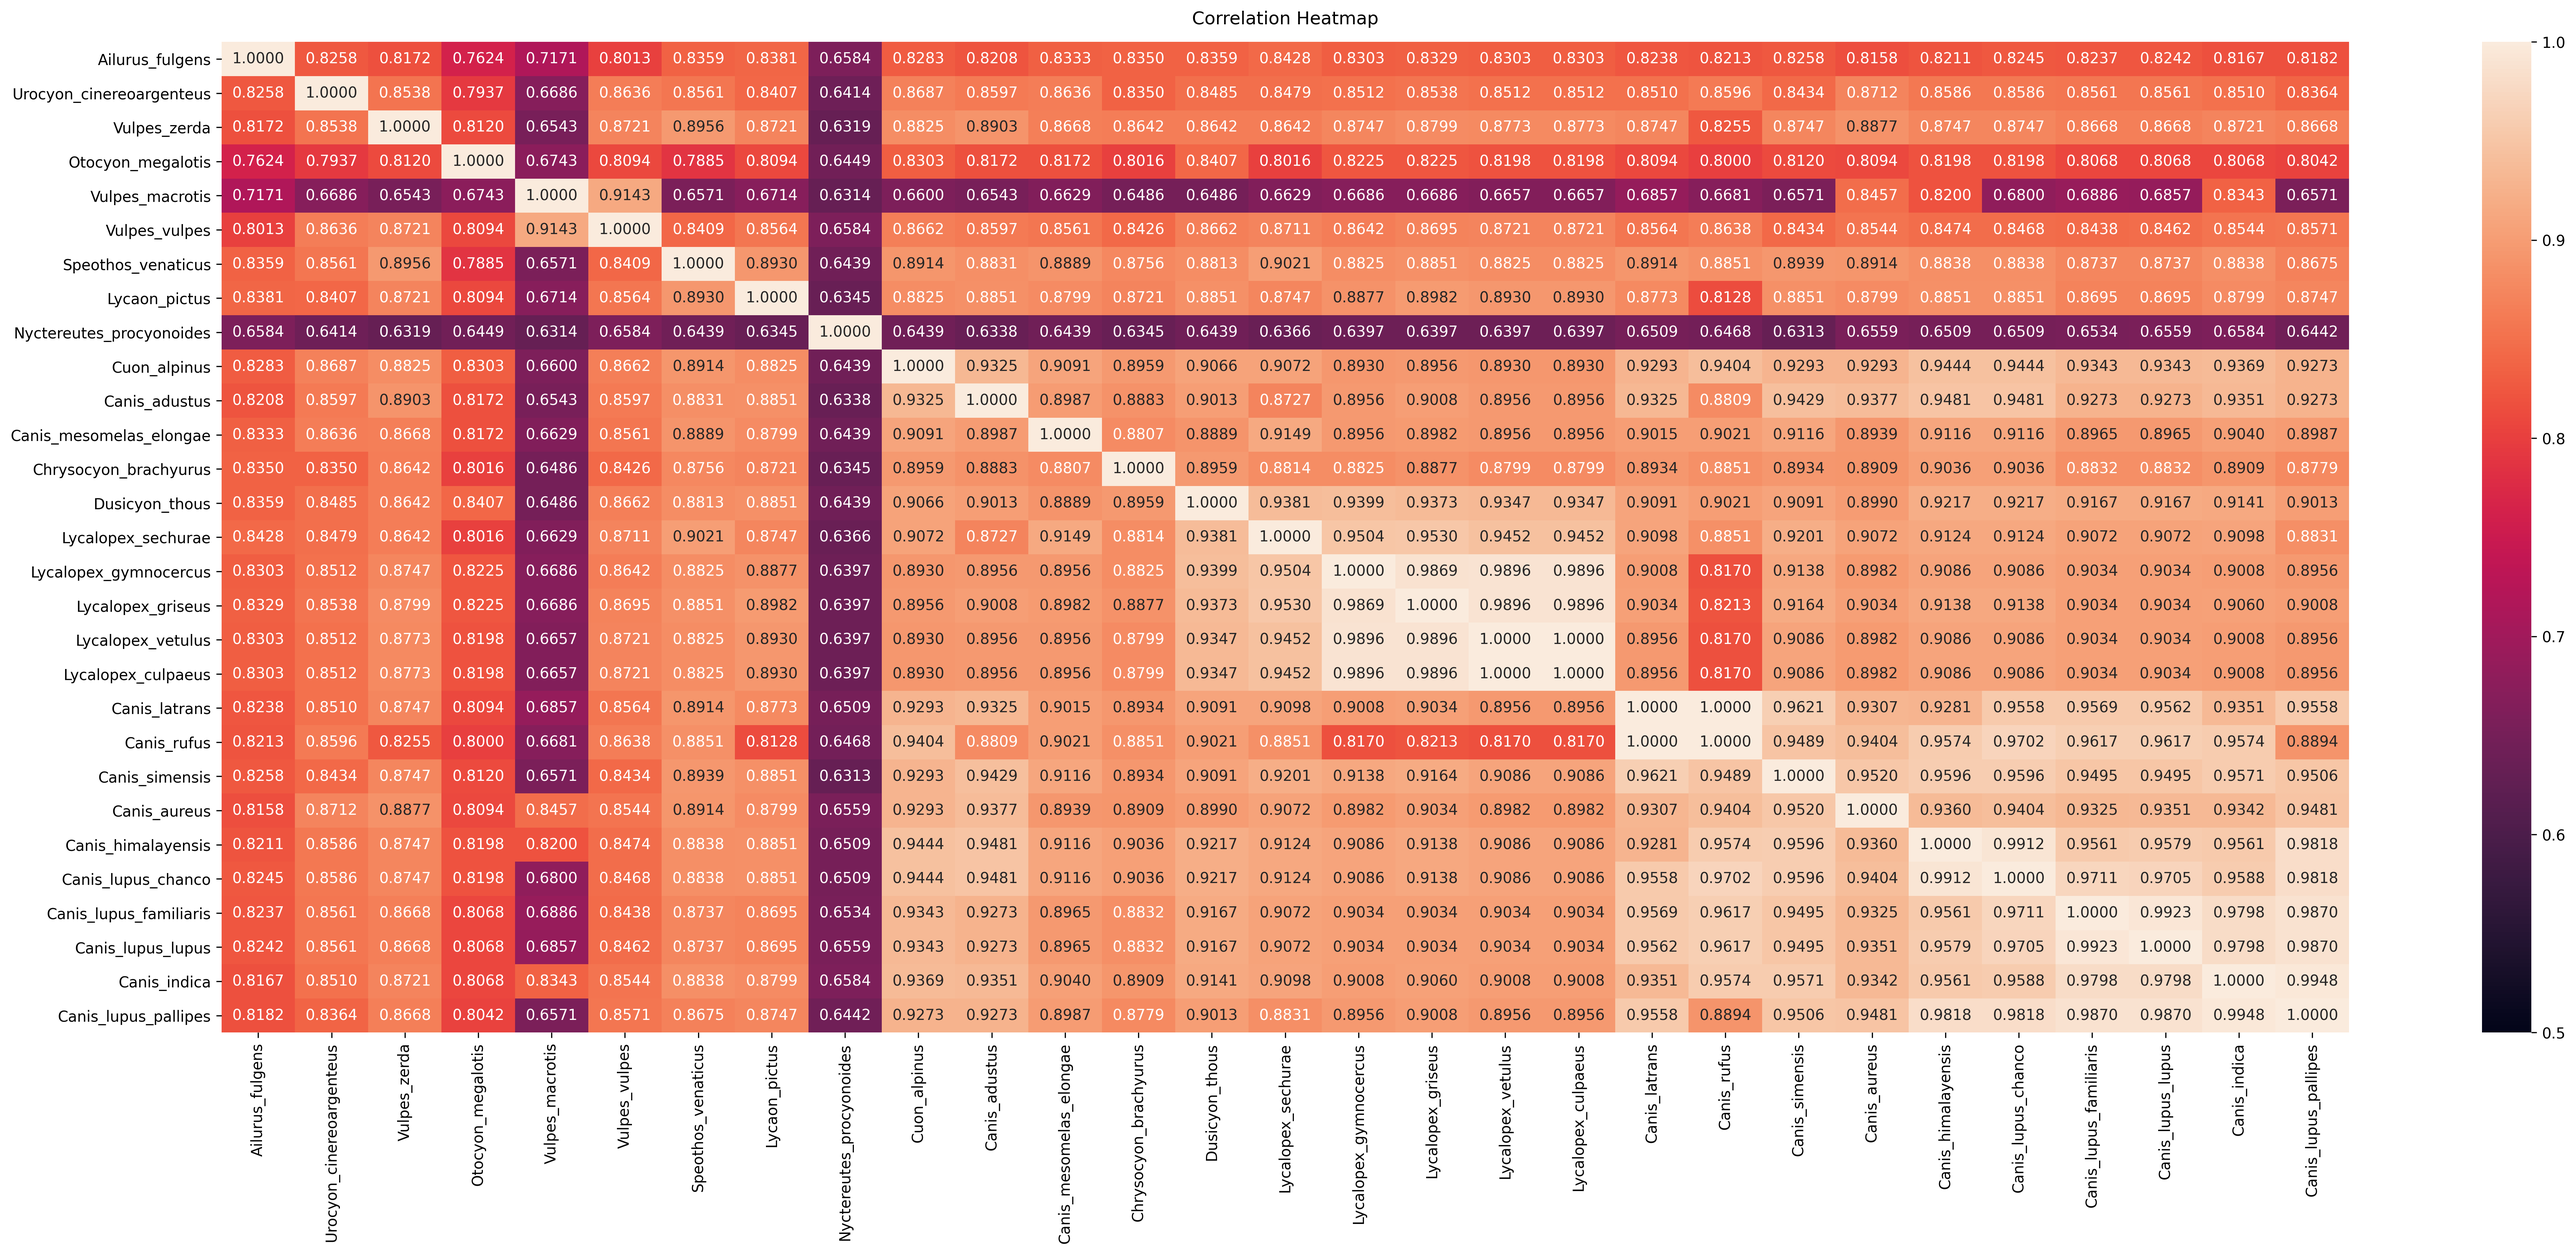
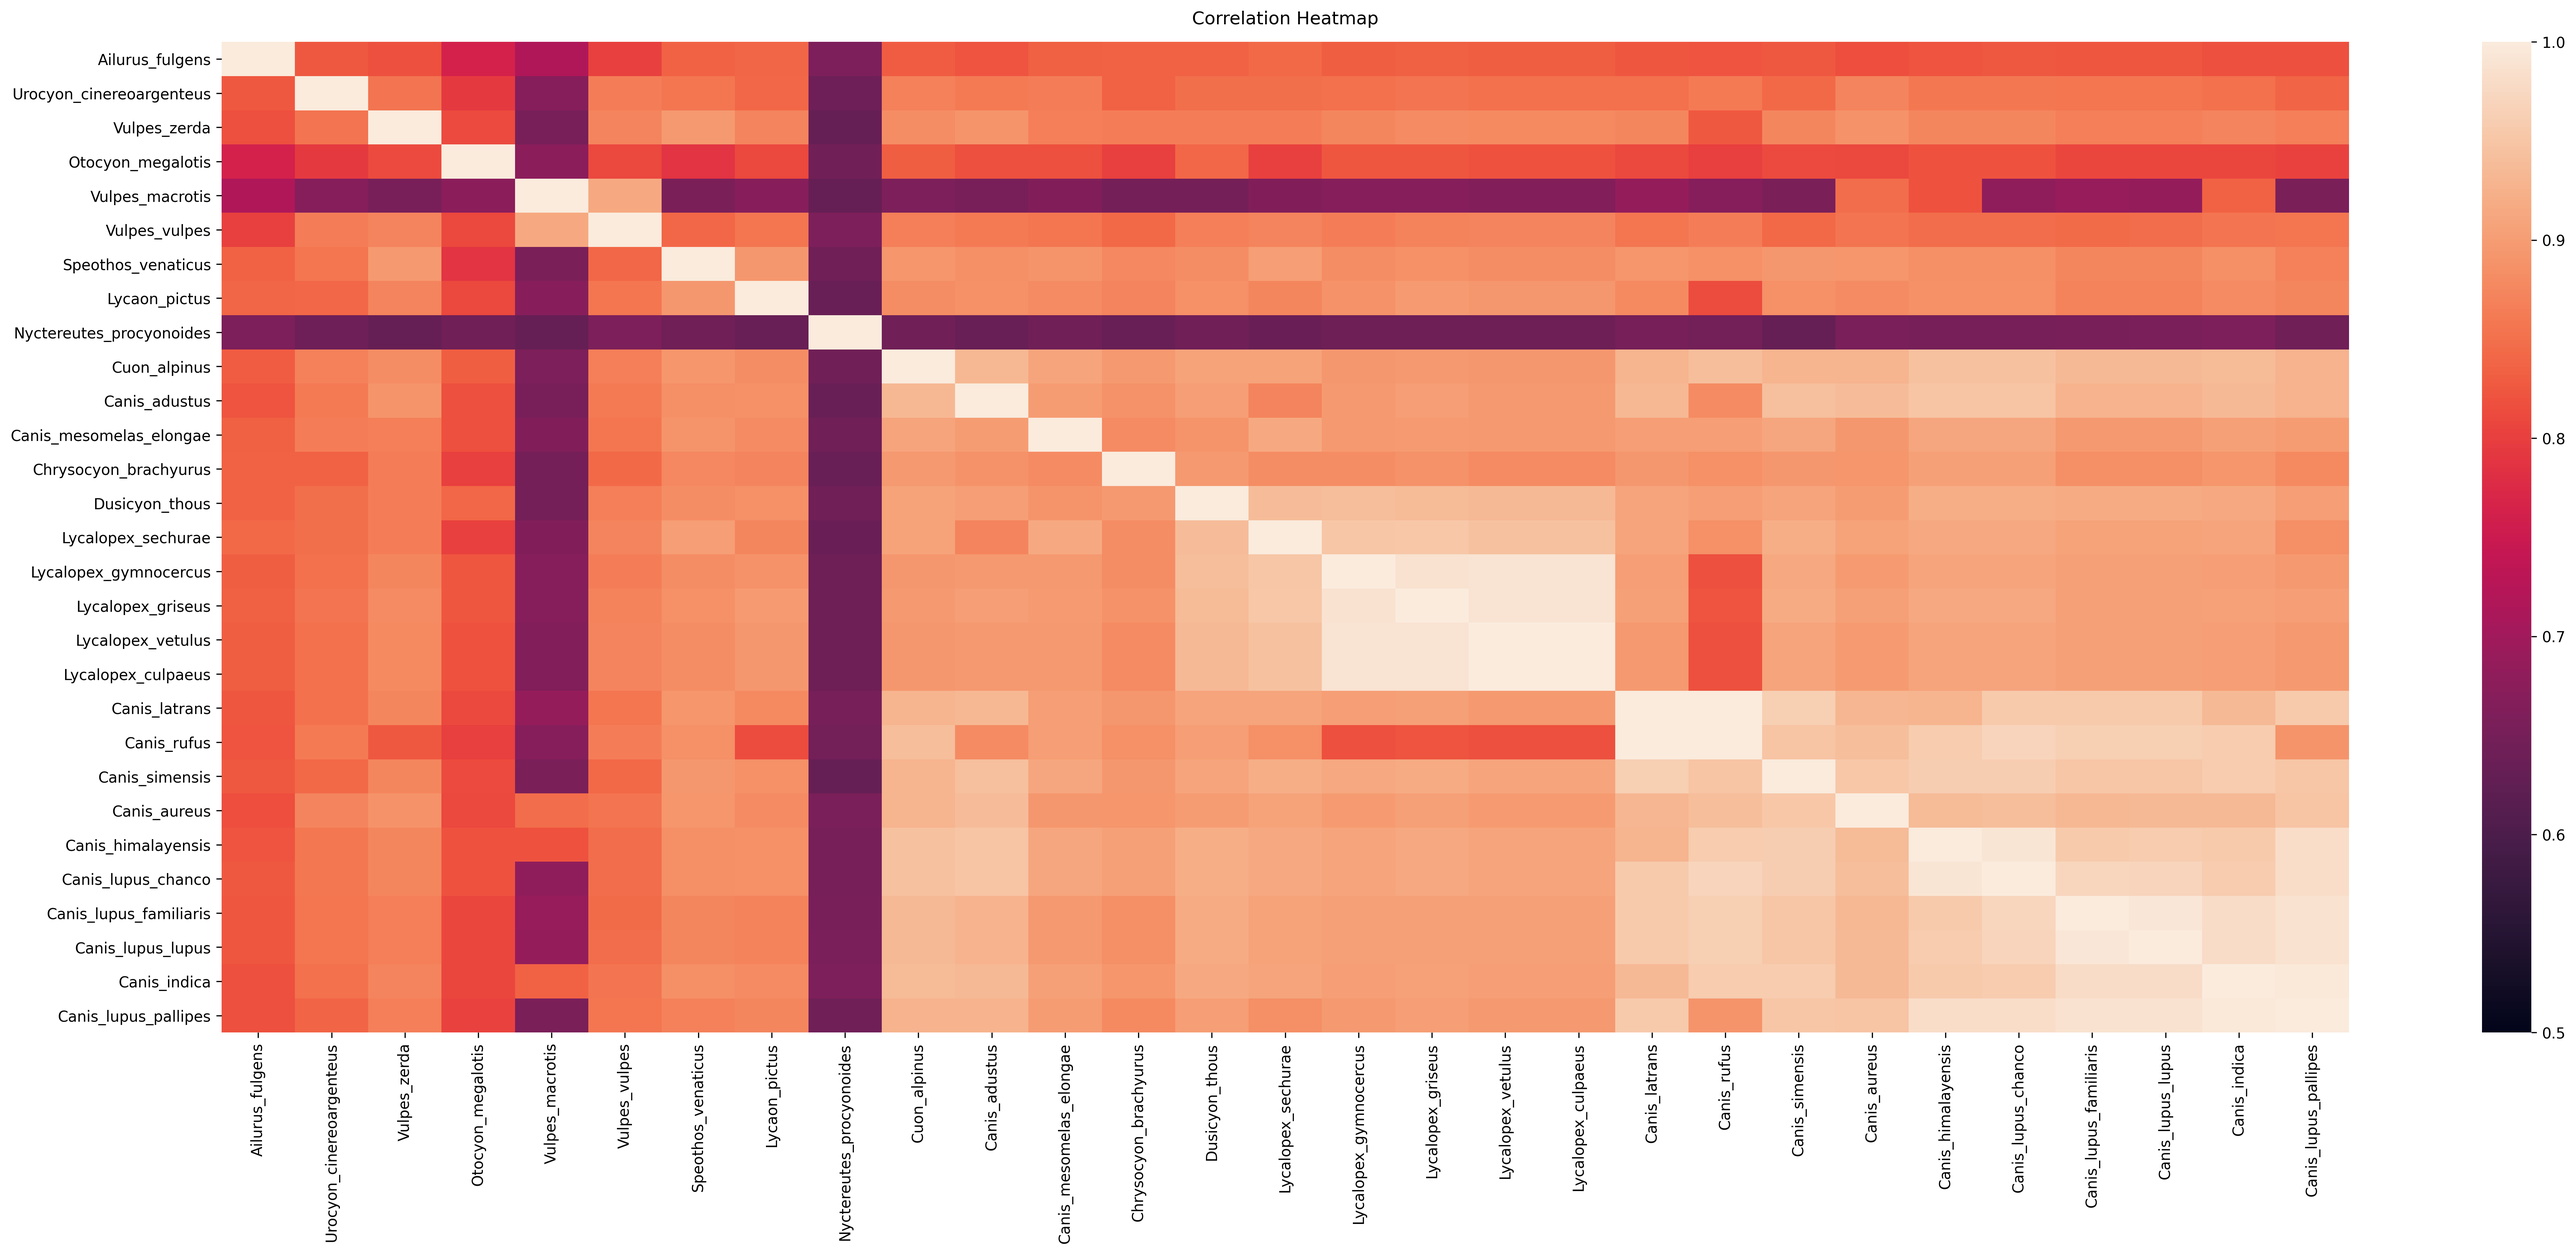
comments

diff --git a/Generate_matrix.py b/Generate_matrix.py
@@ -6,9 +6,19 @@ import json
 import array
 
 def upp2sym(a):
+    '''
+    Translates upper traing. matrix into symmetric matrx
+    :param a: numpy matrix
+    :return: numpy symmetric matrix
+    '''
     return np.where(a,a,a.T)
 
 def sort_by_values_len(dict):
+    '''
+    Sorts the values of a dictionary by length
+    :param dict: the dictianory we want to sort
+    :return: sorted dictionary
+    '''
     dict_len= {key: len(value) for key, value in dict.items()}
     import operator
     sorted_key_list = sorted(dict_len.items(), key=operator.itemgetter(1), reverse=True)
@@ -17,10 +27,12 @@ def sort_by_values_len(dict):
 
 
 if __name__ == "__main__":
+    # Load in data from json file
     f = open('final_matrix.json')
     data_json = json.load(f)
     pre_sorted_data = sort_by_values_len(data_json)
 
+    # Set corrrect values for sorted data dictionary
     sorted_data = {}
     for i in pre_sorted_data:
         for key, value in i.items():
@@ -28,6 +40,8 @@ if __name__ == "__main__":
 
     names = []
     ut_matrix = []
+
+    # Adds zero's where needed because we have an upper triang. matrix
     for key, value in sorted_data.items():
         names.append(key)
         if len(value) != 29:
@@ -40,23 +54,25 @@ if __name__ == "__main__":
             sorted_data[key] = new_list
         ut_matrix.append(sorted_data[key])
 
+    # Make symmetric matrix
     test = np.array(ut_matrix)
     matrix = upp2sym(test)
 
+    # Change numpy array into dictionary
     temp_list = []
     for y in matrix:
         temp_list.append(y.tolist())
 
+    # Change numpy array into dictionary
     final_matrix = {}
     for key, value in sorted_data.items():
         final_matrix[key] = temp_list[0]
         temp_list.pop(0)
 
+    # Create Dataframe
     df = pd.DataFrame(final_matrix, columns=names)
-
     df.index= names
 
-    #corrMatrix = df.corr()
     # Increase the size of the heatmap.
     plt.figure(figsize=(32, 12))
     # Store heatmap object in a variable to easily access it when you want to include more features (such as title).
@@ -66,5 +82,3 @@ if __name__ == "__main__":
     heatmap.set_title('Correlation Heatmap', fontdict={'fontsize': 12}, pad=12)
     plt.savefig('heatmap.png', dpi=300, bbox_inches='tight')
     plt.show()
-
-    #len op hoeveelheid da erin staat en dan telkens max

diff --git a/placementCytB.py b/placementCytB.py
@@ -49,16 +49,20 @@ def levenshtein_ratio_and_distance(s, t, ratio_calc = False):
         # This is the minimum number of edits needed to convert string a to string b
         return distance[row][col]
 
+#TODO: Uitleg functie
 def genomedif(x, y):
+    # TODO: Uitleg
     lenx = len(x)
     leny = len(y)
     swapped = False
 
+    # TODO: Uitleg
     count = lenx-leny
     if lenx<leny:
         swapped = True
         count = leny-lenx
 
+    # TODO: Uitleg
     besti = 0
     final = 0
     for i in range(count+1):
@@ -68,28 +72,34 @@ def genomedif(x, y):
             usedx = x
             usedy = y[i:leny + i]
 
+        # TODO: Uitleg
         result2 = levenshtein_ratio_and_distance(usedx, usedy, True)
         if result2 > final:
             besti = i
             final = result2
-    print("BESTE I: ", besti)
+    #print("BESTE I: ", besti)
     return final
 
+
 def getGenome(name):
+    '''
+    Returns the sequence for the specified name
+    :param name: the specified name
+    :return: genome sequence
+    '''
     for i in range(len(species)):
         if species[i][0] == name:
             return species[i][1]
     return None
 
+#TODO: Uitleg
 f = open('sequenties.json', )
-
 data = json.load(f)
 species = []
 for i in data['species']:
     specie = [i["name"], i["genome"]]
     species.append(specie)
 f.close()
-
 
 x=1
 answerdict = {}
@@ -103,7 +113,6 @@ comparison_dict = {"Ailurus_fulgens": "Canis_rufus",
                    "Canis_lupus_lupus": "Lycalopex_griseus"}
 
 for key, value in comparison_dict.items():
-    print ("Comparing ", key, " with ", value)
     answer = genomedif(getGenome(key), getGenome(value))
     if key in answerdict:
         answerdict[key].append(answer)
@@ -113,8 +122,6 @@ for key, value in comparison_dict.items():
     newts = datetime.datetime.now()
     compts = newts - oldts
 
-    #print(i + 1, " from ", len(species), " and done with comparing ", j + 1, " from ", len(species) - i, " in ",
-          #compts.seconds, " seconds,  the time is", newts.time())
     oldts = datetime.datetime.now()
 
 '''for i in range(1,len(species)):

diff --git a/ServerCode.py b/ServerCode.py
@@ -2,6 +2,7 @@ import socket
 import threading
 import json
 
+#TODO: Uitleg variabelen
 HEADER = 64
 PORT = 5050
 SERVER = "192.168.0.241"
@@ -13,19 +14,24 @@ DISCONNECT_MESSAGE = "!DISCONNECT"
 server = socket.socket(socket.AF_INET, socket.SOCK_STREAM)
 server.bind(ADDR)
 
-
+#TODO: Uitleg functie
 def handle_client(conn, addr):
     print(f"[NEW CONNECTION] {addr} connected.")
 
     connected = True
+    # TODO: Uitleg
     while connected:
         msg_length = conn.recv(HEADER).decode(FORMAT)
+        # TODO: Uitleg
         if msg_length:
             msg_length = int(msg_length)
             msg = conn.recv(msg_length).decode(FORMAT)
+
+            # TODO: Uitleg
             if msg == DISCONNECT_MESSAGE:
                 connected = False
 
+            # TODO: Uitleg
             print(f"[{addr}] {msg}")
             try:
                 resultdict = json.loads(msg)
@@ -34,8 +40,9 @@ def handle_client(conn, addr):
                 fp.close()
                 conn.send("Msg received".encode(FORMAT))
 
-
+            # TODO: Uitleg
             except ValueError:
+                # TODO: Uitleg
                 if msg[0] == "1":
                     try:
                         fi = open(f"{msg[1:]}.json")
@@ -47,7 +54,7 @@ def handle_client(conn, addr):
                     except:
                         conn.send("no".encode(FORMAT))
 
-
+                # TODO: Uitleg
                 else:
                     conn.send("Msg1 received".encode(FORMAT))
 
@@ -55,10 +62,12 @@ def handle_client(conn, addr):
 
     conn.close()
 
-
+#TODO: Uitleg functie
 def start():
     server.listen()
     print(f"[LISTENING] Server is listening on {SERVER}")
+
+    # TODO: Uitleg
     while True:
         conn, addr = server.accept()
         thread = threading.Thread(target=handle_client, args=(conn, addr))

diff --git a/ClientCodeclass.py b/ClientCodeclass.py
@@ -2,8 +2,9 @@ import socket
 import json
 
 
-
+#TODO: Uitleg class
 class clientclass:
+    # TODO: Uitleg functie
     def __init__(self, row_name, col_name):
         self.HEADER = 64
         PORT = 5050
@@ -20,6 +21,7 @@ class clientclass:
         self.col_name = col_name
         self.best_result = 0
 
+    #TODO: Uitleg functie
     def ask(self):
         msg = f"1{self.row_name}{self.col_name}"
         answer = self.send(msg)
@@ -32,6 +34,7 @@ class clientclass:
             #     json.dump(z, fp)
             # fp.close()
 
+    # TODO: Uitleg functie
     def update(self, result, i, final):
         if result > self.best_result:
             self.best_result = result
@@ -40,6 +43,7 @@ class clientclass:
         # msg = f"row {self.row_name} is evaluating {self.col_name} as result {result}"
         self.send(msg)
 
+    # TODO: Uitleg functie
     def send(self, msg):
         message = msg.encode(self.FORMAT)
         msg_length = len(message)
@@ -51,6 +55,7 @@ class clientclass:
         # print(x)
         return x
 
+    # TODO: Uitleg functie
     def closee(self):
         self.send(self.DISCONNECT_MESSAGE)
         self.client.close()
